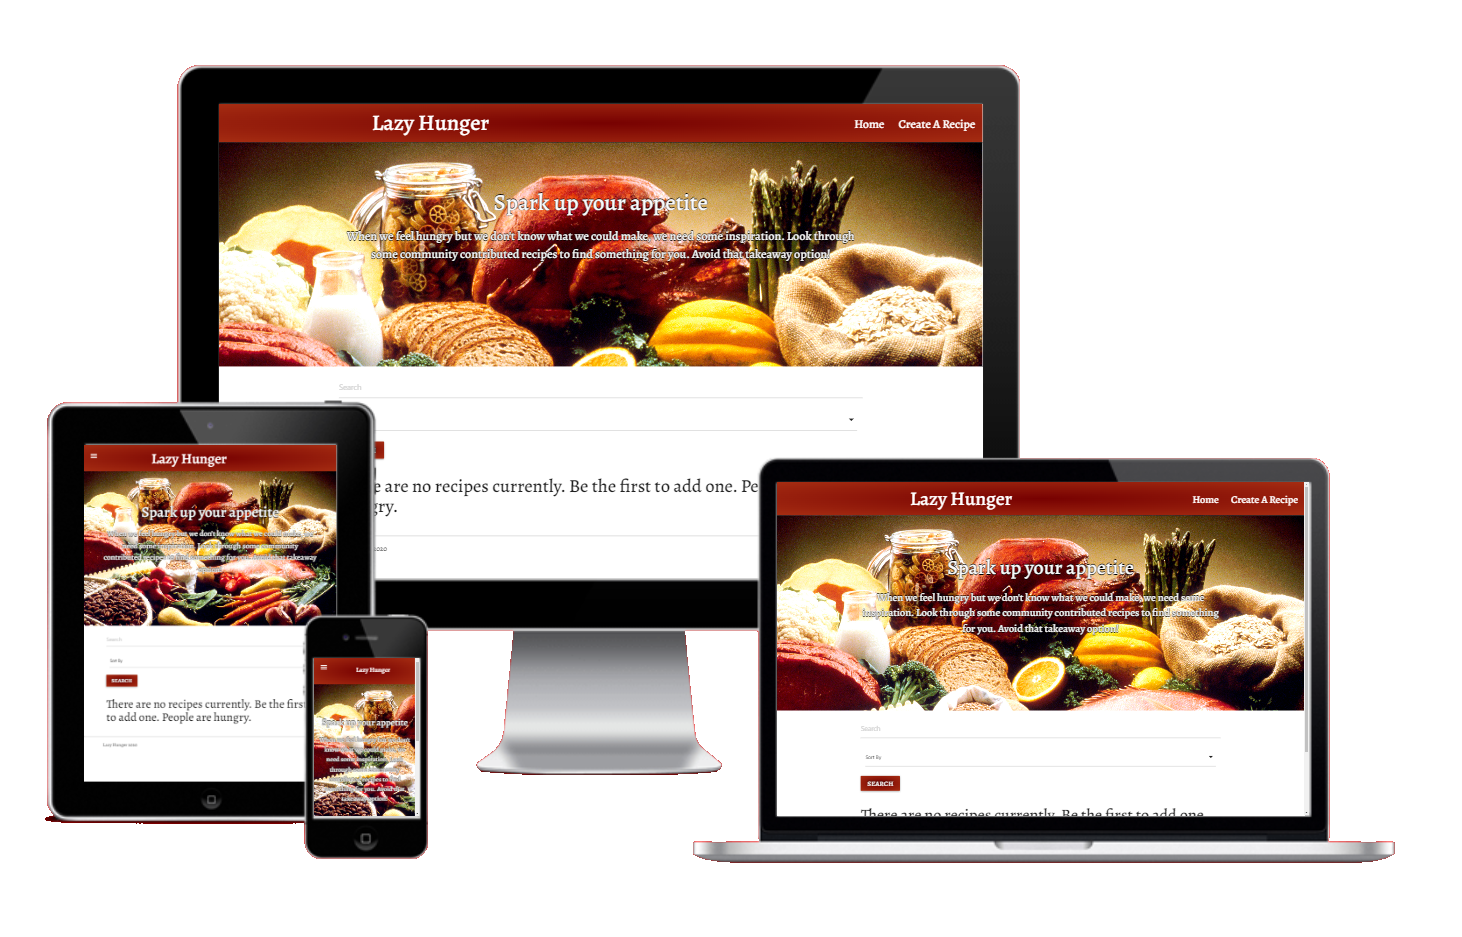
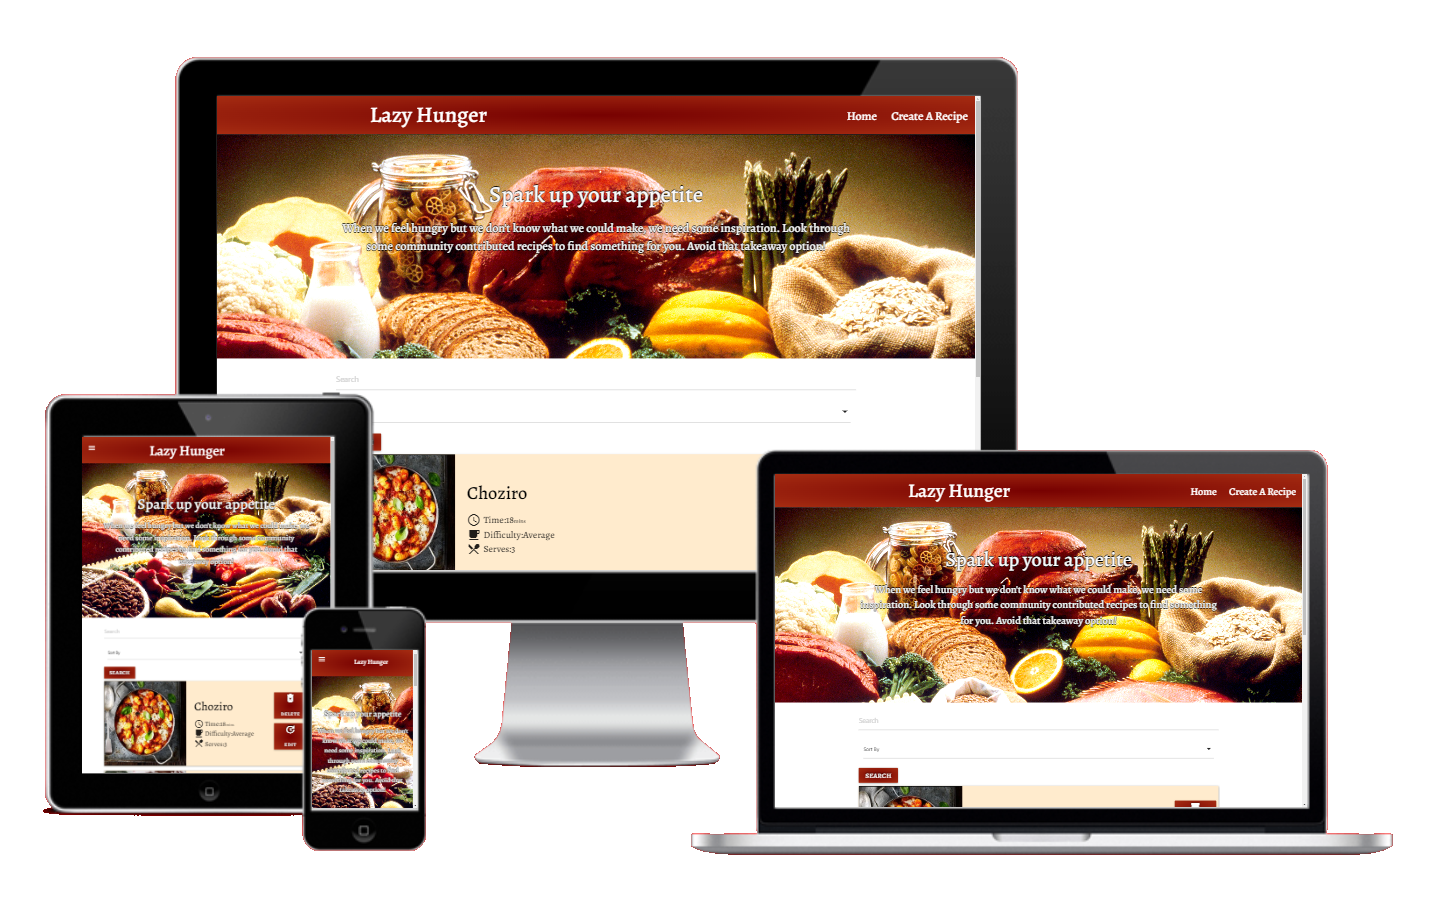
Added a lot of adjustments for mobile view of site.

Changed region(s): [[0.0312, 0.0614, 0.9661, 0.9518]]

diff --git a/src/assets/css/featuredProjects.css b/src/assets/css/featuredProjects.css
@@ -4,7 +4,6 @@
 
 .carousel-item img{
     width: 100%;
-    height: 100%;
 }
 
 .projects{
@@ -38,6 +37,8 @@
 
 .featuredProjectDescription {
     background: radial-gradient(#b9b191, #ffc228) !important;
+    color: black;
+    font-weight: 500;
     right: 0 !important;
     top: 0px !important;
     width: 200px;
@@ -47,24 +48,48 @@
     padding: 8px;
     cursor: pointer;
     font-size: 14px;
-    max-height: 100px; /* Initial max height for collapsing */
-    overflow: hidden; /* Hide overflowing content */
-    transition: max-height 0.5s ease-in; /* Transition for max-height */
-}
-
-.featuredProjectDescription.expanded {
-    max-height: 300px; /* Adjust this value as needed for expanding */
-}
-
-
-.featuredProjectDescription span{
-    margin-right: 20px;
+    max-height: 100px;
+    overflow: hidden;
+    transition: max-height 0.5s ease-in;
 }
 
 .featuredProjectDescription:hover{
-    background-color: #919191;
+    background: radial-gradient(#141414, #919191) !important;
+    color: #fff;
+}
+
+.featuredProjectDescription.expanded {
+    max-height: 300px;
 }
 
 .featuredProjectDescription span{
+    margin-right: 20px;
     font-size: 18px !important;
+}
+
+.featureIcon{
+    font-size: 20px;
+}
+
+@media only screen and (max-width: 500px) {
+    .featuredProjectDescription{
+        width: auto;
+    }
+    .featuredProjectDescription p {
+        font-size: 0.8rem;
+    }
+    .featuredProjectDescription span {
+        font-size: 1rem !important;
+    }
+    .carousel-inner{
+        height: 260px !important;
+        min-height: auto !important;
+    }
+    .carousel-control-prev-icon, .carousel-control-next-icon {
+        width: 1.4rem !important;
+        height: 1.4rem !important;
+    }
+    .featuredDescription{
+        font-size: 0.8rem !important;
+    }
 }

diff --git a/src/features/projects/components/highlight.js b/src/features/projects/components/highlight.js
@@ -47,7 +47,7 @@ const Highlight = ({ index, title, description, image, mobileVersion, admin }) =
                                     </div>
                                 </div>
                                 <div className='col-sm-12 col-md-7'>
-                                    <div className='m-2 p-2 text-shadow'>
+                                    <div className='highlight-text m-2 p-2 text-shadow'>
                                         <h1 className='text-center'>{title}</h1>
                                         <hr />
                                         <p>{description}</p>
@@ -76,7 +76,7 @@ const Highlight = ({ index, title, description, image, mobileVersion, admin }) =
                             // Render for odd index (Image on the right)
                             <>
                                 <div className='col-sm-12 col-md-7'>
-                                    <div className='m-2 p-2 text-shadow'>
+                                    <div className='highlight-text m-2 p-2 text-shadow'>
                                         <h1 className='text-center'>{title}</h1>
                                         <hr />
                                         <p>{description}</p>
@@ -115,7 +115,7 @@ const Highlight = ({ index, title, description, image, mobileVersion, admin }) =
                 ) : (
                     <div className='row'>
                         <div className='col-sm-12'>
-                            <div className='mt-3 p-3 text-center'>
+                            <div className='highlight-text mt-3 p-3 text-center'>
                                 <h1>{title}</h1>
                                 <hr />
                                 <p>{description}</p>

diff --git a/src/features/projects/components/featuredProjects.js b/src/features/projects/components/featuredProjects.js
@@ -2,6 +2,7 @@ import React, { useState } from "react";
 import Carousel from 'react-bootstrap/Carousel';
 import '../../../assets/css/featuredProjects.css';
 import projects from '../../../data/projects.json';
+import { FaInfoCircle } from 'react-icons/fa';
 
 const FeaturedProjects = () => {
     const [isCollapsed, setIsCollapsed] = useState(true);
@@ -25,13 +26,16 @@ const FeaturedProjects = () => {
                                 </a>
                                 <div
                                     onClick={toggleCollapse}
-                                    className={`border border-2 border-black featuredProjectDescription text-shadow text-light hoverWhite rounded ${isCollapsed ? '' : 'expanded'}`}
+                                    className={`featuredProjectDescription rounded ${isCollapsed ? '' : 'expanded'}`}
                                 >
-                                    <span>{project.fields.title}</span>
+                                    <div>
+                                        <span>{project.fields.title}</span>
+                                        <FaInfoCircle className="featureIcon" />
+                                    </div>
                                     {!isCollapsed && 
                                     <div>
                                         <hr />
-                                        <p>
+                                        <p className="featuredDescription">
                                             {project.fields.shortDescription}
                                         </p>
                                     </div>

diff --git a/src/features/home/components/aboutMe.js b/src/features/home/components/aboutMe.js
@@ -5,7 +5,7 @@ import { FaGithub, FaLinkedin, FaFile } from 'react-icons/fa';
 let articleContent = "I am a Full Stack Developer having completed several courses focused on programming and expanding my knowledge of different aspects of the development lifecycle. "+
 "My courses have covered a diverse range of development languages, frameworks, and skills. "+
 "\n \n"+
-"I am now working with Orcawise as a Data Scienist to web scrape, using Python, websites depending on the data they need. Also getting to see use of NLP to get some insights about the data.";
+"I am now working with Orcawise in thier Innovation Program as a Data Scienist to web scrape, using Python, websites depending on the data they need. Also getting to see use of NLP to get some insights about the data.";
 
 const AboutMe = () => {
     return (
@@ -34,7 +34,7 @@ const AboutMe = () => {
                         </div>
 
                         <hr />
-                        <div className='mt-5'>
+                        <div className='mt-5 slideRight'>
                             <a href='https://github.com/AllenGleeson'>
                                 <span className='links text-shadow'>GitHub <FaGithub /></span>
                             </a>

diff --git a/src/assets/css/nav.css b/src/assets/css/nav.css
@@ -19,7 +19,6 @@
 
 .navbar-brand{
   z-index: 1;
-  background-color: #333333;
 }
 
 .nav-link{
@@ -42,6 +41,9 @@
 .nav-item {
   animation: 1s ease-out 0s 1 slide;
 }
+.navbar-toggler:focus {
+  box-shadow: 0px 0px 10px var(--bs-navbar-toggler-focus-width) !important;
+}
 
 @keyframes slide {
   0% {
@@ -59,5 +61,25 @@
   }
   to {
     transform: rotate(360deg);
+  }
+}
+
+@media only screen and (max-width: 500px) {
+  #nav{
+    display: flex !important;
+    flex-wrap: nowrap;
+    height: 150px;
+  }
+  #nav button{
+    margin-left: 6px;
+  }
+  .navbar-collapse{
+    display: flex !important;
+  }
+  .navbar-toggler{
+    border: 1px solid black;
+  }
+  .navbar-toggler:focus {
+    box-shadow: 0px 0px 10px white !important;
   }
 }

diff --git a/src/features/projects/components/endDescription.js b/src/features/projects/components/endDescription.js
@@ -15,8 +15,8 @@ const EndDescription = ({descriptions, color}) => {
                 <Carousel>
                     {descriptions.titles.map((title, index) => (
                         <Carousel.Item key={index}>
-                            <div className='align-items-center d-flex h-100 justify-content-center text-light text-shadow w-100'>
-                                <div className='m-2 w-50 text-center'>
+                            <div className='text-center text-light text-shadow'>
+                                <div className='m-2'>
                                     <h1>{title}</h1>
                                     <hr />
                                     <p>{descriptions.descriptions[index]}</p>

diff --git a/src/Layouts/header.js b/src/Layouts/header.js
@@ -14,10 +14,10 @@ const Header = () => {
   return (
     <Navbar expand="lg" className='bg-nav' id='nav'>
         <Navbar.Toggle onClick={toggleCollapse} aria-controls="navbarTogglerDemo03" aria-expanded={!isCollapsed} aria-label="Toggle navigation" />
+          <Navbar.Brand href="/">
+            <img id="logo" src={logo} alt="logo" />
+          </Navbar.Brand>
         <Navbar.Collapse in={!isCollapsed}>
-            <Navbar.Brand href="/">
-              <img id="logo" src={logo} alt="logo" />
-            </Navbar.Brand>
             <Nav className="mr-auto">
               <NavItem className='links'>
                   <NavLink className="nav-link text-shadow" href="/">

diff --git a/src/assets/css/project.css b/src/assets/css/project.css
@@ -28,6 +28,24 @@
 .alternateBg {
     border-top-left-radius: 100% !important;
     border-bottom-right-radius: 100% !important;
-    background-color: #d7d7d714;
+    background: linear-gradient(90deg, #232323,#5d5d5d);
     min-height: 300px;
+}
+
+
+@media only screen and (max-width: 500px) {
+    .carousel-item{
+        min-height: auto !important;
+        height: auto !important;
+        padding: 30px;
+    }
+    .carousel-item h1{
+        font-size: 1rem !important;
+    }
+    .carousel-item p{
+        font-size: 1rem !important;
+    }
+    .highlight-text h1{
+        font-size: 1.3rem;
+    }
 }

diff --git a/src/index.css b/src/index.css
@@ -7,7 +7,7 @@ body {
   margin: 0;
   -webkit-font-smoothing: antialiased;
   -moz-osx-font-smoothing: grayscale;
-  background-color: #494949 !important;
+  background: linear-gradient(90deg, #5d5d5d, #232323);
   font-family: 'Inter', sans-serif;
 }
 
@@ -175,4 +175,14 @@ code {
 @keyframes grow {
   0% { transform: scale(.2); }
   100% { transform: scale(1); }
+}
+
+@media only screen and (max-width: 500px) {
+  .tech_tag{
+    margin: 3px;
+  }
+  .tech_tag span{
+    font-size: 0.8rem;
+    font-weight: 600;
+  }
 }

diff --git a/src/assets/css/aboutMe.css b/src/assets/css/aboutMe.css
@@ -46,3 +46,16 @@
 .aboutMeSection{
   color: white;
 }
+
+@media only screen and (max-width: 500px) {
+  .vertical-timeline-element-subtitle h5{
+    font-size: 0.8rem;
+    margin-top: 4px;
+  }
+  .vertical-timeline-element-content p {
+    font-size: 0.8rem !important;
+  }
+  .vertical-timeline-element-date{
+    font-size: 0.7rem !important;
+  }
+}
